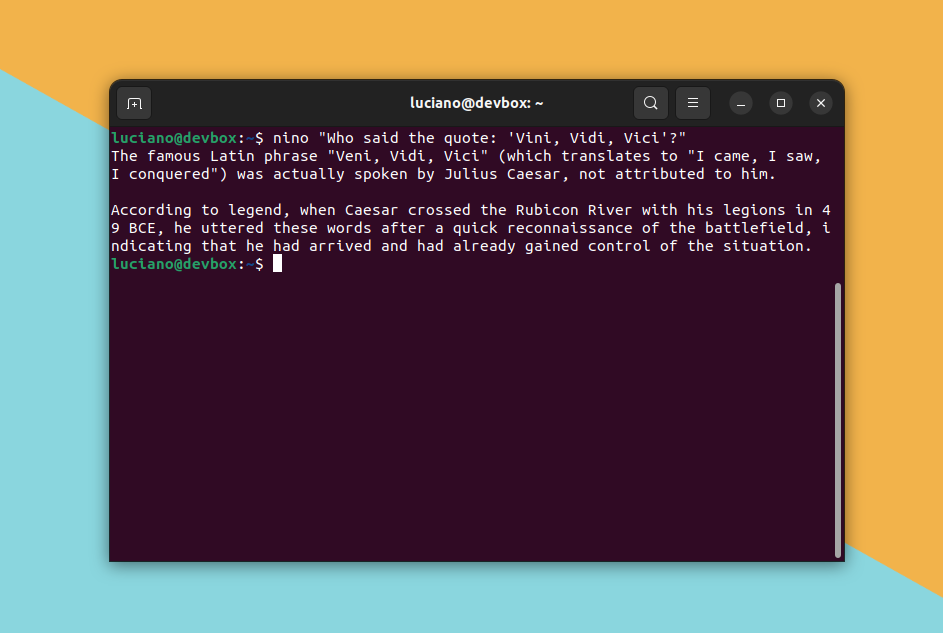
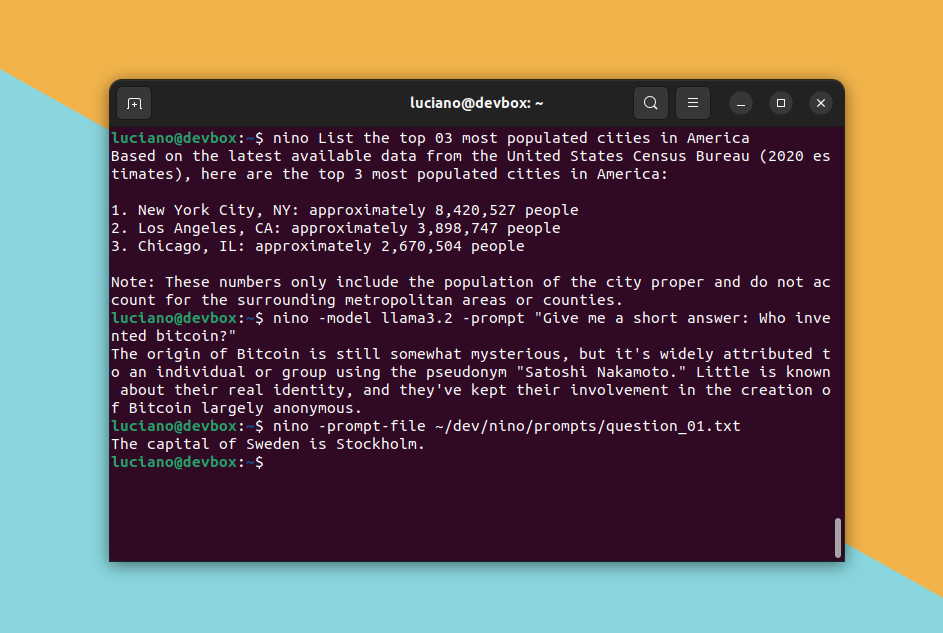
docs: update README file

Changed region(s): [[0.0923, 0.2101, 0.8918, 0.8104]]

diff --git a/README.md b/README.md
@@ -14,7 +14,7 @@ Nino enhances the basic interaction provided by Ollama by displaying full model 
 
 ## Screenshot
 
-![nino-cli-screenshot](https://github.com/user-attachments/assets/61f1029b-d41a-476b-917f-280ef4ff58a0)
+![nino-cli-screenshot](https://github.com/user-attachments/assets/49cb338b-098a-4789-bd8e-e349681b0de4)
 
 ## Features
 
